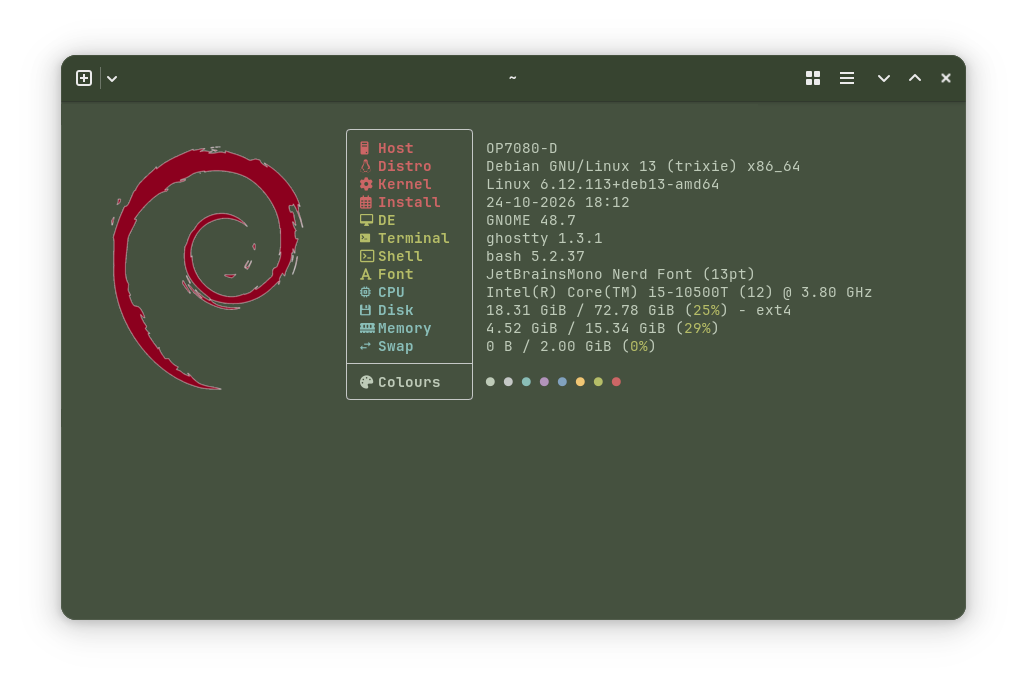
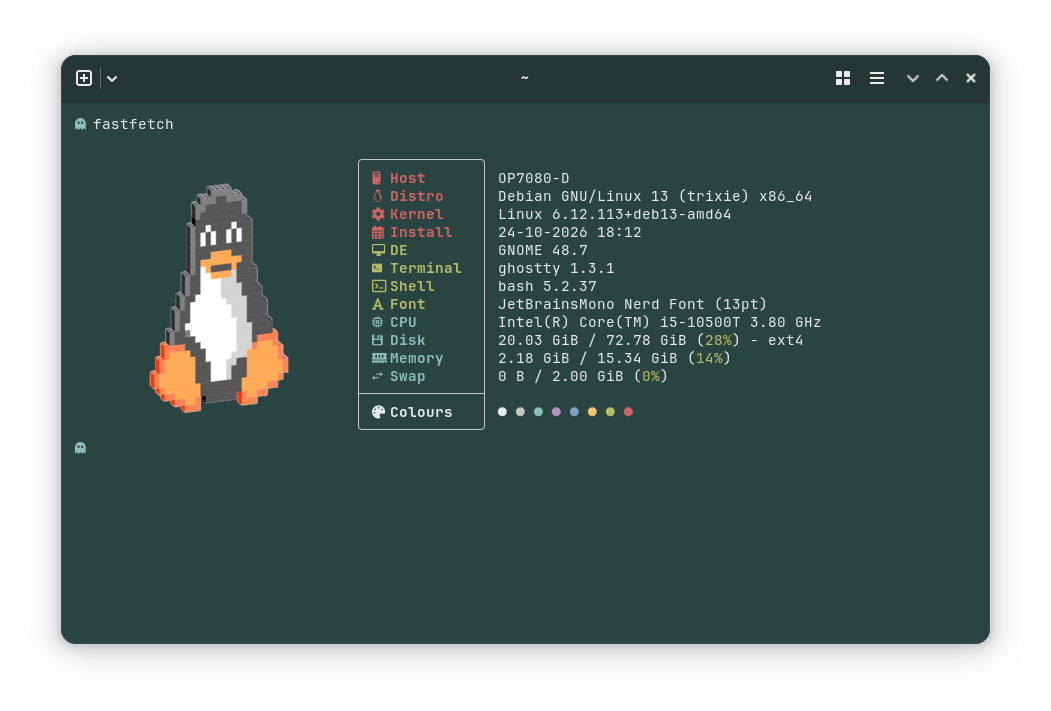
Updated .json files, readme.md, screenshots

diff --git a/readme.md b/readme.md
@@ -10,22 +10,23 @@ Welcome to my fastfetch config presets repository
 
 <p align="center">
 Config 1: a blend of official fastfetch examples/6 and examples/7
-  <img src="./screenshots/config-01-original-blend.png" style="width: 100%;">
+  <img src="./screenshots/config-01-blend-67.png" style="width: 100%;">
 </p>
-
 <p align="center">
 Config 2: a single tall cell: system details, small footer cell: colours
   <img src="./screenshots/config-02-tall-cells.png" style="width: 100%;">
 </p>
-
 <p align="center">
 Config 3: three cells: distro details, DE and terminal details, hardware details
-  <img src="./screenshots/config-03-3cells.png" style="width: 100%;">
+  <img src="./screenshots/config-03-threecells" style="width: 100%;">
 </p>
-
 <p align="center">
-Config 4: minimalist three 3 cell: distro, system, colours
-  <img src="./screenshots/config-04-mini-cells.png" style="width: 100%;">
+Config 4: minimalist three-cell: distro, system, colours
+  <img src="./screenshots/config-04-minimal-cells.png" style="width: 100%;">
+</p>
+<p align="center">
+Config 5: minimalist two-cell table: software on top, hardware on bottom, colours
+  <img src="./screenshots/config-05-minimal-table.png" style="width: 100%;">
 </p>
 
 ## Usage
@@ -35,3 +36,7 @@ Config files: place a chosen config file in /home/username/.config/fastfetch/, e
 Fonts: [Jetbrains Mono NerdFont](https://www.jetbrains.com/lp/mono/) is required to display ligatures properly 
 
 Images: Ensure your .png image is in /home/username/.config/fastfetch/ . The Debian logo image used in my screenshots was 800 x 800 px, but you can choose any size you want. Depending on your chosen .png image, you might need to play with padding values in the config until you have the alignment you want.
+
+## Additional credits
+
+Tux logo is original art by Stefan at <a href="https://tikz.net/tux/">TikZ.net</a>
